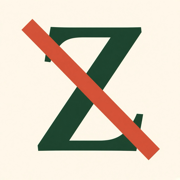
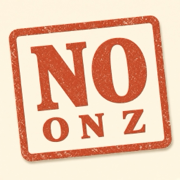
Identify as the official No on Z committee and keep the disclaimer in the footer only.
Drop Within Our Means partnership language, replace the About filings block with committee copy plus contact, and add a NO stamp favicon.

diff --git a/src/app/about/page.tsx b/src/app/about/page.tsx
@@ -1,5 +1,5 @@
 import { PageIntro } from "@/components/PageIntro";
-import { paidForBy, site } from "@/lib/site";
+import { site } from "@/lib/site";
 
 export default function AboutPage() {
   return (
@@ -7,31 +7,25 @@ export default function AboutPage() {
       <PageIntro
         eyebrow="Committee"
         title="Who’s behind No on Z"
-        dek="Volunteer neighbors and local property owners. Within Our Means Berkeley. Not a party committee."
+        dek="The official opposition committee for No on Measure Z."
       />
       <div className="space-y-4 text-bay">
         <p>
-          {site.committeeName}. FPPC ID {site.fppcId}.
+          StopMeasureZ.com is the site of the official ballot-measure committee
+          opposing Berkeley Measure Z on the November 3, 2026 ballot.
         </p>
         <p>
-          Treasurer:{" "}
-          <a className="text-eucalyptus underline" href={`mailto:${site.treasurerEmail}`}>
-            {site.treasurerEmail}
-          </a>
+          Volunteer neighbors and local property owners. Not a party committee.
         </p>
         <p>
-          Press:{" "}
-          <a className="text-eucalyptus underline" href={`mailto:${site.pressEmail}`}>
-            {site.pressEmail}
+          Contact:{" "}
+          <a
+            className="text-eucalyptus underline"
+            href={`mailto:${site.contactEmail}`}
+          >
+            {site.contactEmail}
           </a>
         </p>
-        <p>
-          Filings:{" "}
-          <a className="text-eucalyptus underline" href={site.netfileUrl}>
-            FPPC NetFile
-          </a>
-        </p>
-        <p className="font-mono text-xs">{paidForBy()}</p>
       </div>
     </main>
   );

diff --git a/src/components/Footer.tsx b/src/components/Footer.tsx
@@ -15,12 +15,6 @@ export function Footer() {
         <div>
           <p className="font-serif text-2xl">{site.name}</p>
           <p className="mt-2 text-sm text-sage">{site.subline}</p>
-          <p className="mt-4 font-mono text-[11px] leading-relaxed text-sage">
-            {paidForBy()}
-          </p>
-          <p className="mt-2 font-mono text-[11px] text-sage">
-            FPPC ID pending.
-          </p>
         </div>
         <nav className="grid gap-2 text-sm" aria-label="Footer">
           <Link href="/cost" className="hover:underline">
@@ -68,7 +62,10 @@ export function Footer() {
           </ul>
         </div>
       </div>
-      <div className="mx-auto max-w-6xl border-t border-paper/15 px-4 py-4">
+      <div className="mx-auto flex max-w-6xl flex-col gap-2 border-t border-paper/15 px-4 py-4 sm:flex-row sm:items-center sm:justify-between">
+        <p className="font-mono text-[11px] leading-relaxed text-sage">
+          {paidForBy()}
+        </p>
         <a
           href={`mailto:${site.contactEmail}`}
           className="font-mono text-sm text-sage hover:text-paper hover:underline"

diff --git a/src/lib/copy.ts b/src/lib/copy.ts
@@ -59,8 +59,8 @@ export const faqItems = [
     id: "who-we-are",
     q: "Who is behind No on Z?",
     short:
-      "Volunteer neighbors and local property owners, including Within Our Means Berkeley. Not a party committee.",
-    a: "Volunteer neighbors and local property owners. Within Our Means Berkeley is part of the effort. This is not a party committee. Treasurer and FPPC filings will be linked on /about once the committee ID is live. We will not pretend to be a council slate.",
+      "The official opposition committee for No on Measure Z. Volunteer neighbors and local property owners. Not a party committee.",
+    a: "We are the official opposition committee for No on Measure Z. Volunteer neighbors and local property owners. This is not a party committee. We will not pretend to be a council slate.",
   },
   {
     id: "uvy",

diff --git a/src/app/press/page.tsx b/src/app/press/page.tsx
@@ -12,8 +12,8 @@ export default function PressPage() {
       <section className="space-y-4">
         <h2 className="font-serif text-2xl">Boilerplate</h2>
         <p>
-          StopMeasureZ.com is the site of the ballot-measure committee opposing
-          Berkeley Measure Z on the November 3, 2026 ballot. Measure Z is a
+          StopMeasureZ.com is the site of the official opposition committee for
+          No on Measure Z on the November 3, 2026 ballot. Measure Z is a
           voter-initiated special parcel tax to capitalize a regional Public Bank
           East Bay that does not exist — no charter, no FDIC insurance, no DFPI
           approval. Oakland is paying $0. Alameda County is paying $0. Richmond

diff --git a/src/app/endorsements/page.tsx b/src/app/endorsements/page.tsx
@@ -26,10 +26,9 @@ const seeds = [
     group: "Community organizations",
     items: [
       {
-        name: "Within Our Means Berkeley",
-        place: "Co-chairs: Paul Mathew, [Lomax — confirm in writing]",
-        quote:
-          "Seed listing only. Publish as co-chairs once confirmed in writing.",
+        name: "[ORGANIZATION — confirm in writing]",
+        place: "Berkeley",
+        quote: "Placeholder. Do not invent organizational partners.",
       },
     ],
   },

diff --git a/src/lib/facts.ts b/src/lib/facts.ts
@@ -326,7 +326,7 @@ export const cityDeficitNote =
 
 export const permissionQuote = {
   text: "I don’t think we’re, collectively, ideologically, anti-public bank at all. The issue is the way this is written… Berkeley money going to a regional effort.",
-  attribution: "Paul Mathew, Within Our Means Berkeley",
+  attribution: "Paul Mathew",
 } as const;
 
 export const calculatorExamples = {
